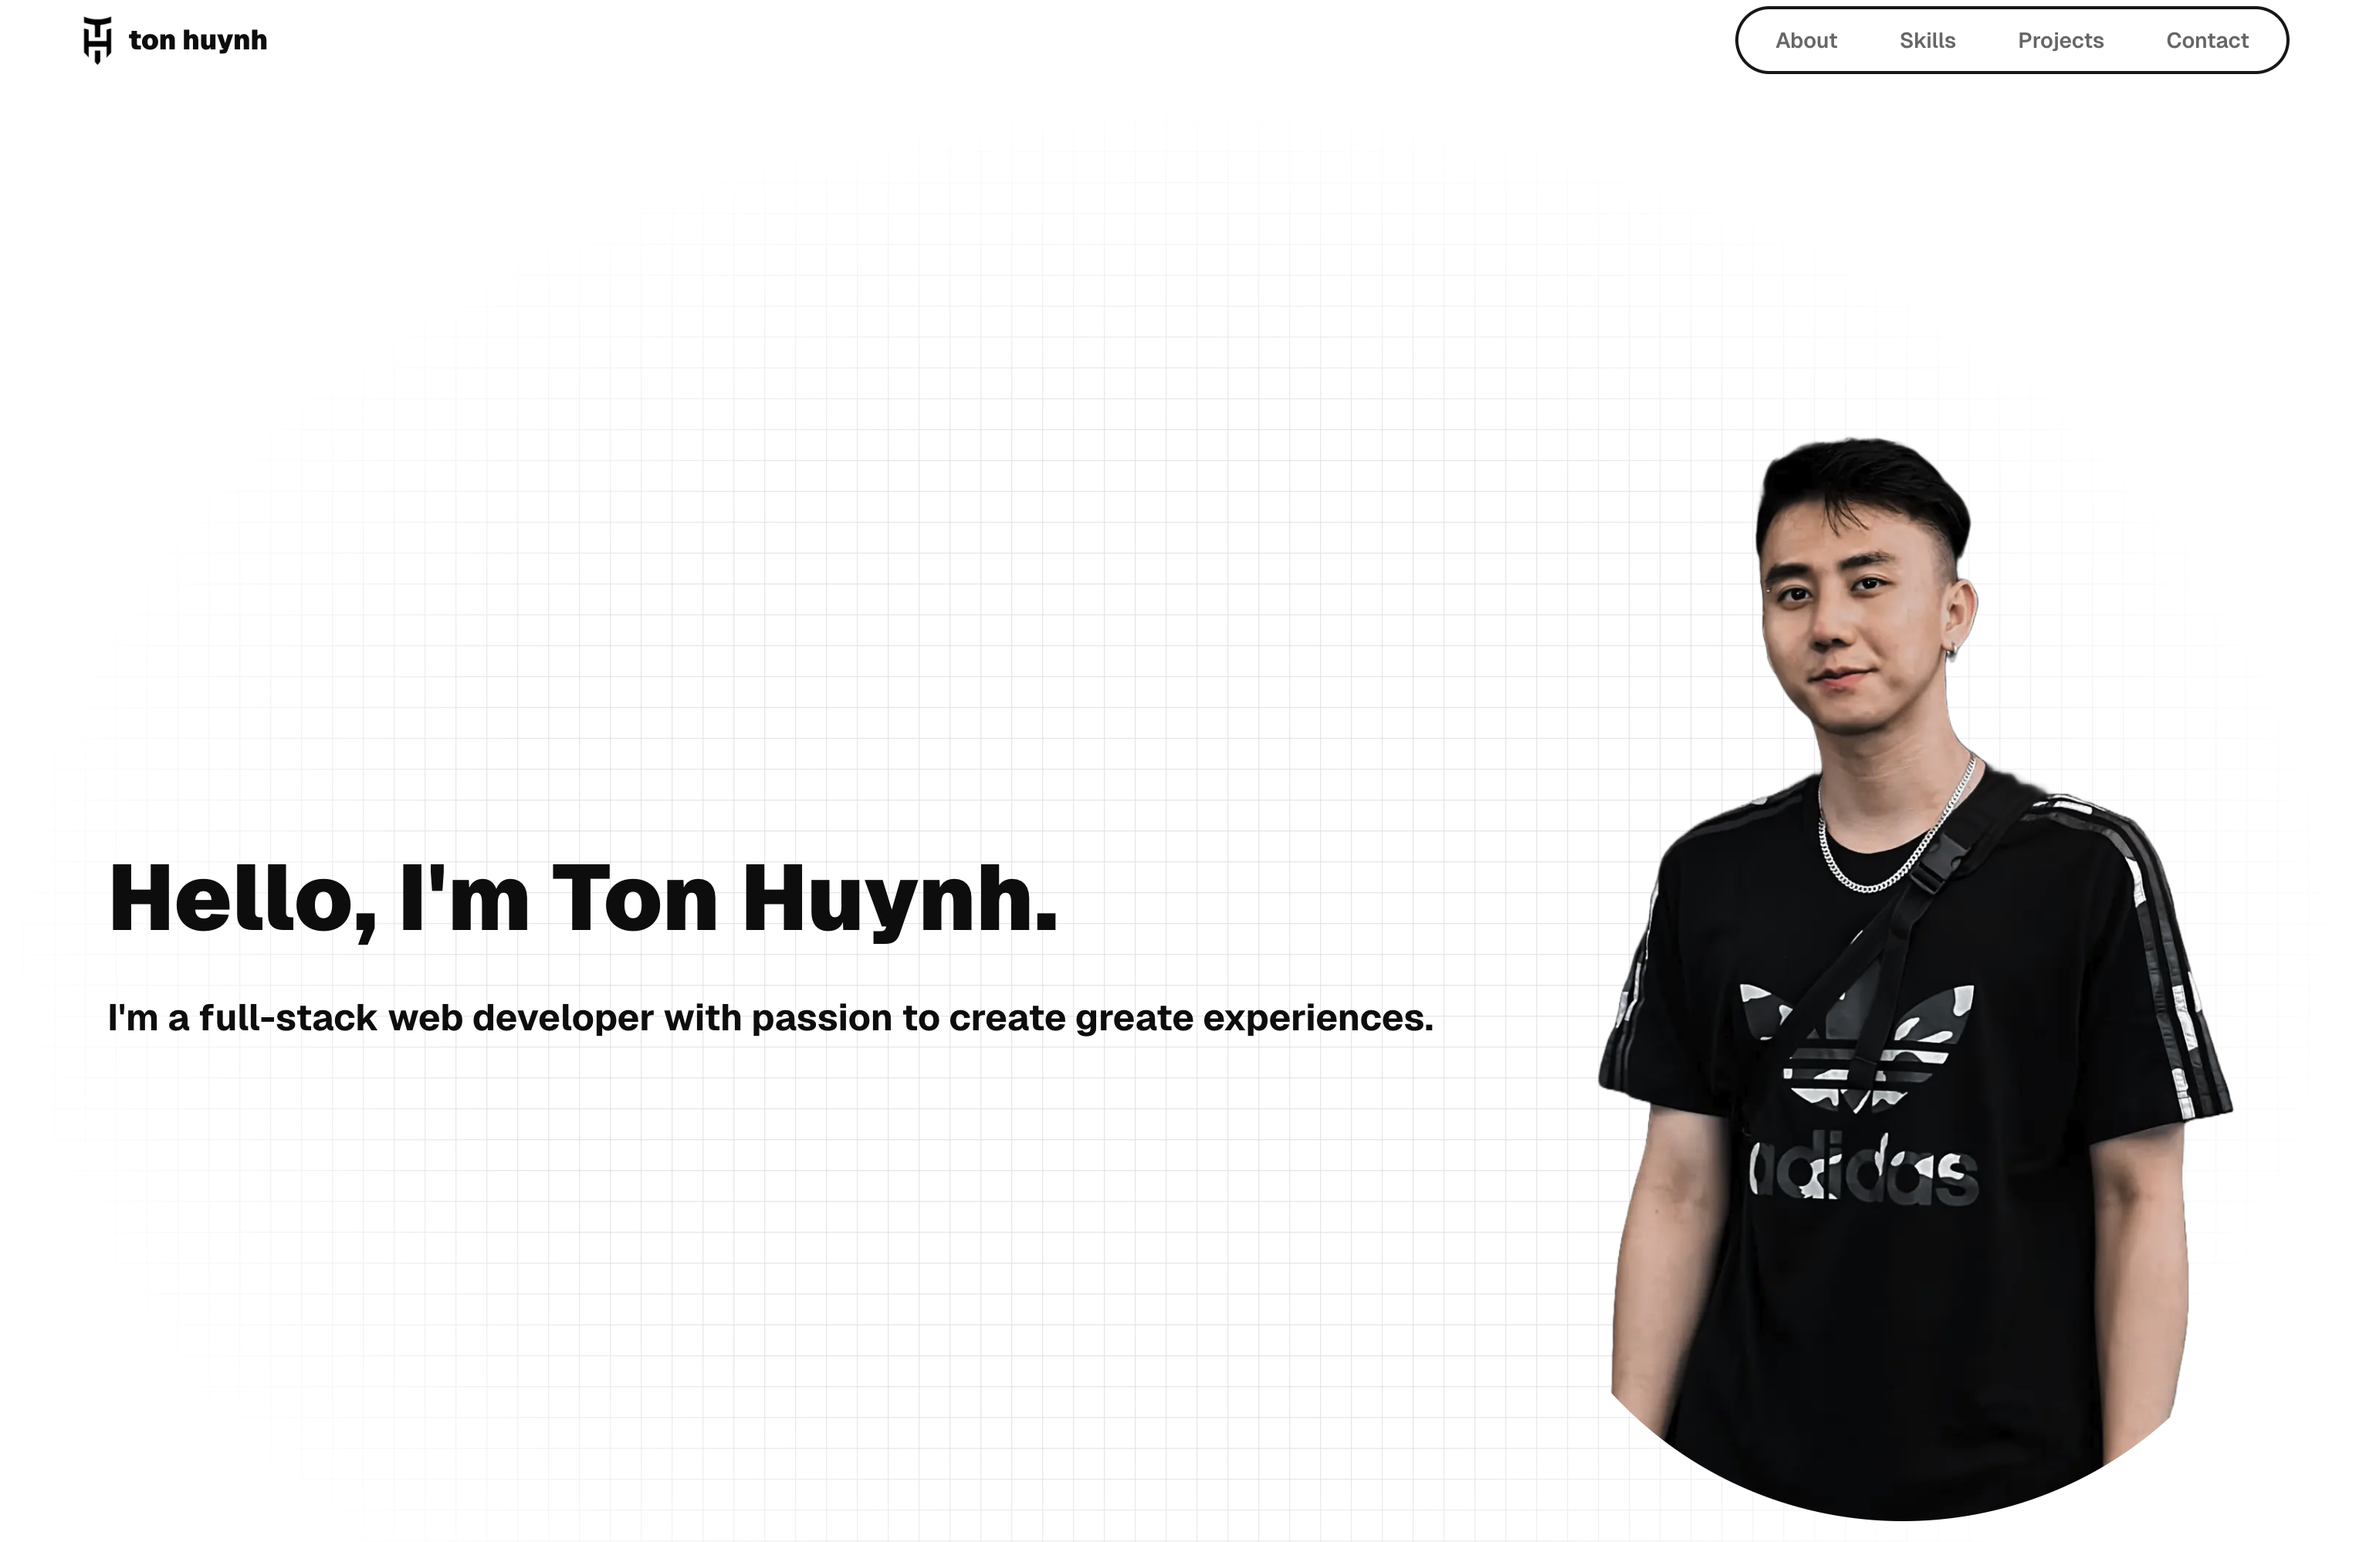
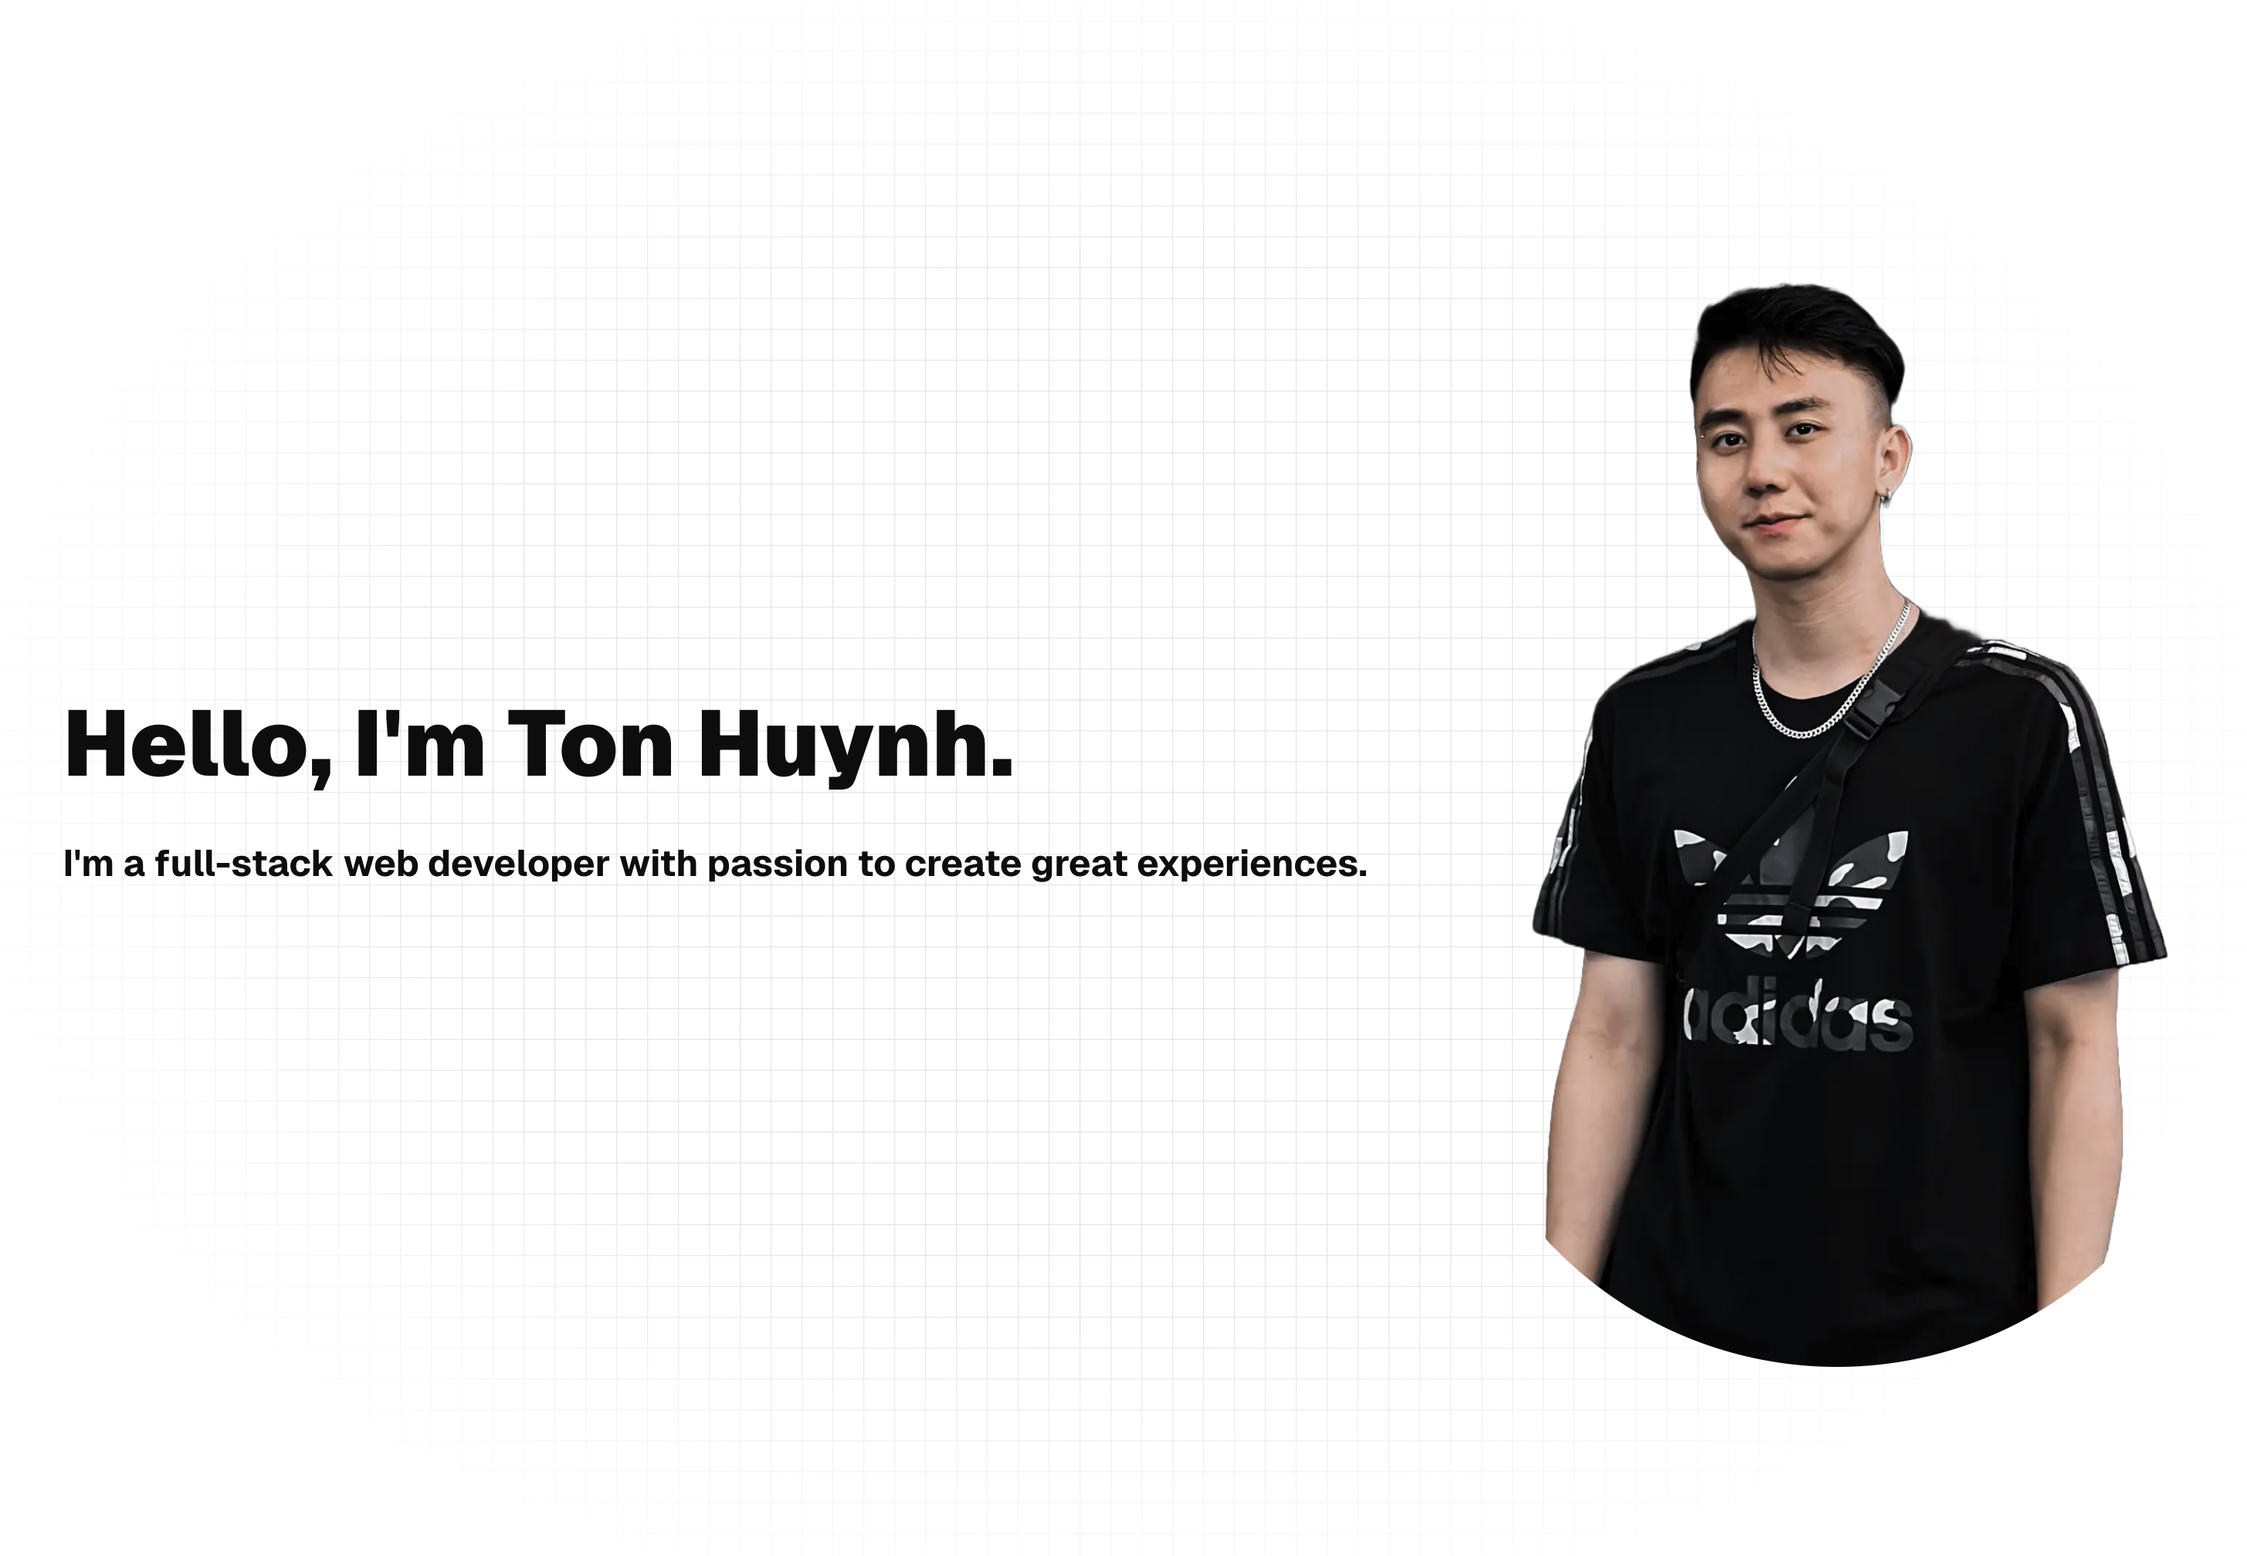
fix hero typo

diff --git a/src/components/Hero.tsx b/src/components/Hero.tsx
@@ -21,7 +21,7 @@ export function Hero() {
           >
             <h1 className="mb-4 text-4xl font-black md:mb-8 md:text-6xl">Hello, I'm Ton Huynh.</h1>
             <p className="text-xl font-bold md:text-2xl">
-              I'm a full-stack web developer with passion to create greate experiences.
+              I'm a full-stack web developer with passion to create great experiences.
             </p>
           </motion.div>
 
